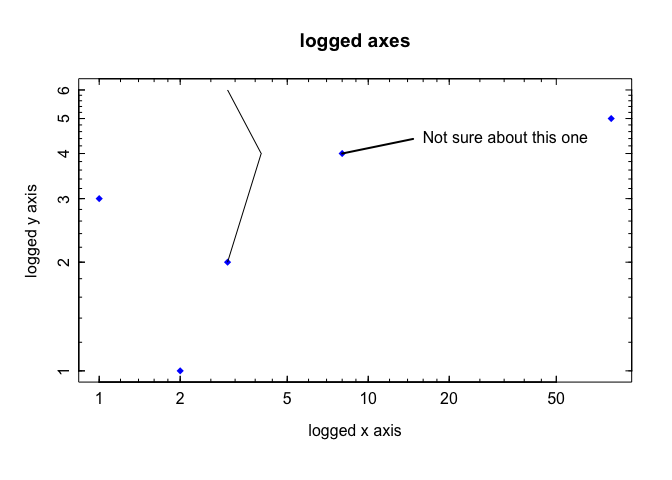
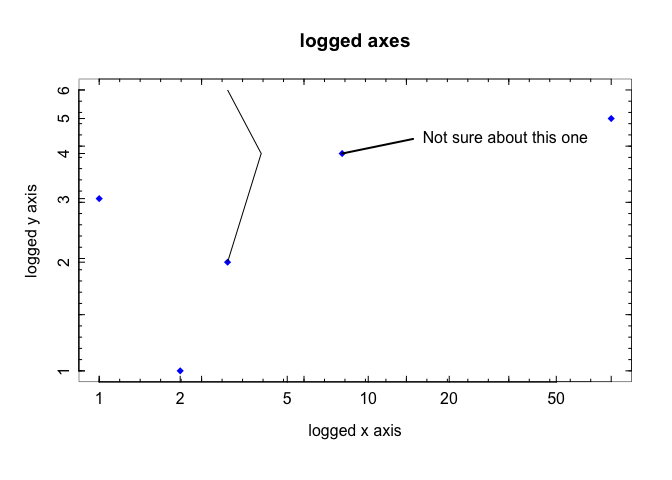
updates to def.funs

diff --git a/README.md b/README.md
@@ -33,7 +33,7 @@ demoPlot <- gsplot() %>%
   abline(b=1, a=0, legend.name="1:1") %>%
   axis(side=c(3,4), labels=FALSE) %>%
   legend(location="topleft",title="Awesome!") %>%
-  # grid() %>%
+  grid() %>%
   error_bar(x=1:3, y=c(3,1,2), y.high=c(0.5,0.25,1), y.low=0.1) %>%
   error_bar(x=1:3, y=c(3,1,2), x.low=.2, x.high=.2, col="red",lwd=3) %>%
   callouts(x=1, y=2.8, lwd=2, angle=250, labels="Weird data") %>%
